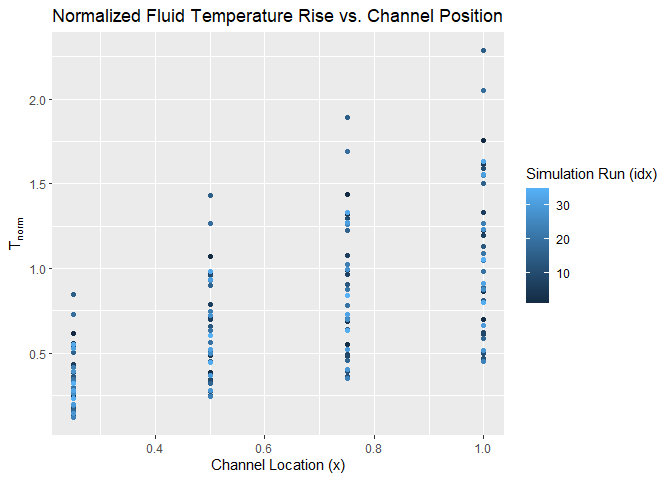
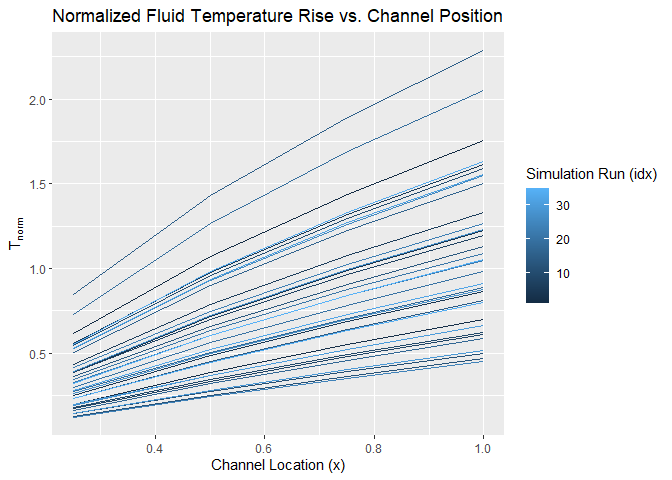
Challenge 11 Corrections

Changed region(s): [[0.0938, 0.3438, 0.75, 0.875]]

diff --git a/challenges/c11-psaap-assignment.md b/challenges/c11-psaap-assignment.md
@@ -192,7 +192,7 @@ glimpse(df_psaap)
 
 **Observations**:
 
-- (Take notes here!)
+- There are 22 variables and they are all discrete.
 
 The important variables in this dataset are:
 
@@ -236,7 +236,7 @@ of fluid, for different experimental settings (e.g. different dimensions
 df_psaap %>% 
 ggplot(
   aes(x = x, y = T_norm, color = idx, group = idx)) +
-  geom_point() +
+  geom_line(aes(group = idx)) +
   labs(title = "Normalized Fluid Temperature Rise vs. Channel Position",
        x = "Channel Location (x)",
        y = expression(T[norm]),
@@ -315,8 +315,8 @@ data.frame(
 **Observations**:
 
 - Which model is *most accurate*? Which is *least accurate*?
-  - The most accurate model is the baseline while the nonphysical model
-    is the least accurate.
+  - The most accurate model is the cheat while the nonphysical model is
+    the least accurate.
 - What *Category* of variable is `avg_T`? Why is it such an effective
   predictor?
   - avg_T is the output plane-averaged fluid temperature, it is an
@@ -399,7 +399,10 @@ df_psaap %>%
     out because we don’t care about outputs or metadata to calculate
     T_norm, except for avg_T, but you can find that using other data.
 
-  ## Which inputs are *statistically significant*, according to the model?
+- Which inputs are *statistically significant*, according to the model?
+
+  - According to the model, x, W, L, I_0, U_0, d_p, and C_fp are
+    statistically significant.
 
 - What is the regression coefficient for `x`? What about the regression
   coefficient for `T_f`?
@@ -414,7 +417,8 @@ df_psaap %>%
 - How do these standard deviations relate to the regression coefficients
   for `x` and `T_f`?
 
-  - Inversely
+  - They relate by scaling the regression coefficients 𝑥, but x doesn’t
+    vary by just one unit, it varies across its standard deviation
 
 - Note that literally *all* of the inputs above have *some* effect on
   the output `T_norm`; so they are all “significant” in that sense. What
@@ -423,7 +427,9 @@ df_psaap %>%
 
   - There is a cutoff for statistical significance and the cutoff is
     relatively arbitrary some variables are more correlated than others,
-    but its correlation not causation
+    but with “statistically insignificant” values, they still affect the
+    data. but there is not enough data to estimate the effect with
+    confidence.
 
 ## Contrasting CI and PI
 
@@ -583,8 +589,8 @@ bind_rows(
 - How many predictors does the `fit_simple` model need in order to make
   a prediction? What about your model `fit_q4`?
 
-  - fit_simple uses one predictor, x, while fit_q4 uses four, x, L, T_f,
-    and d_p.
+  - fit_simple uses one predictor, x, while fit_q4 uses all predictors
+    except for idx, avg_q, avg_T, and rms_T.
 
   ## How many predictors does the `fit_simple` model need in order to make a prediction? What about your model `fit_q4`?
 
